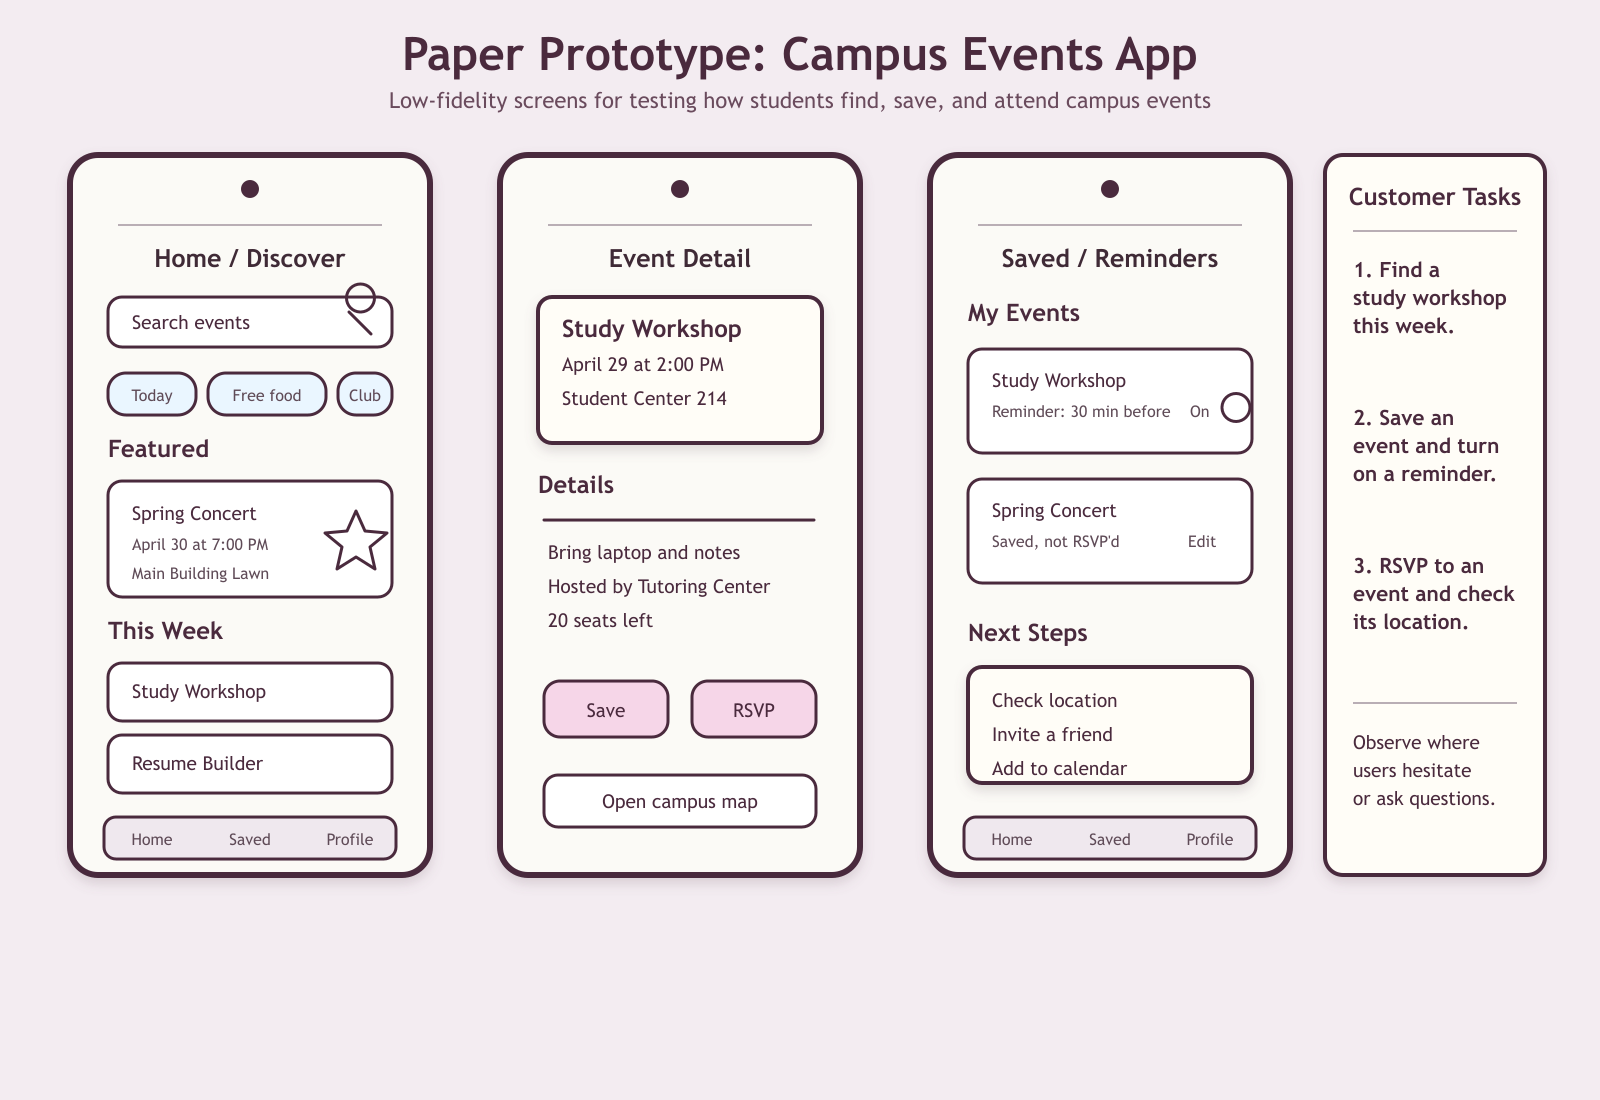
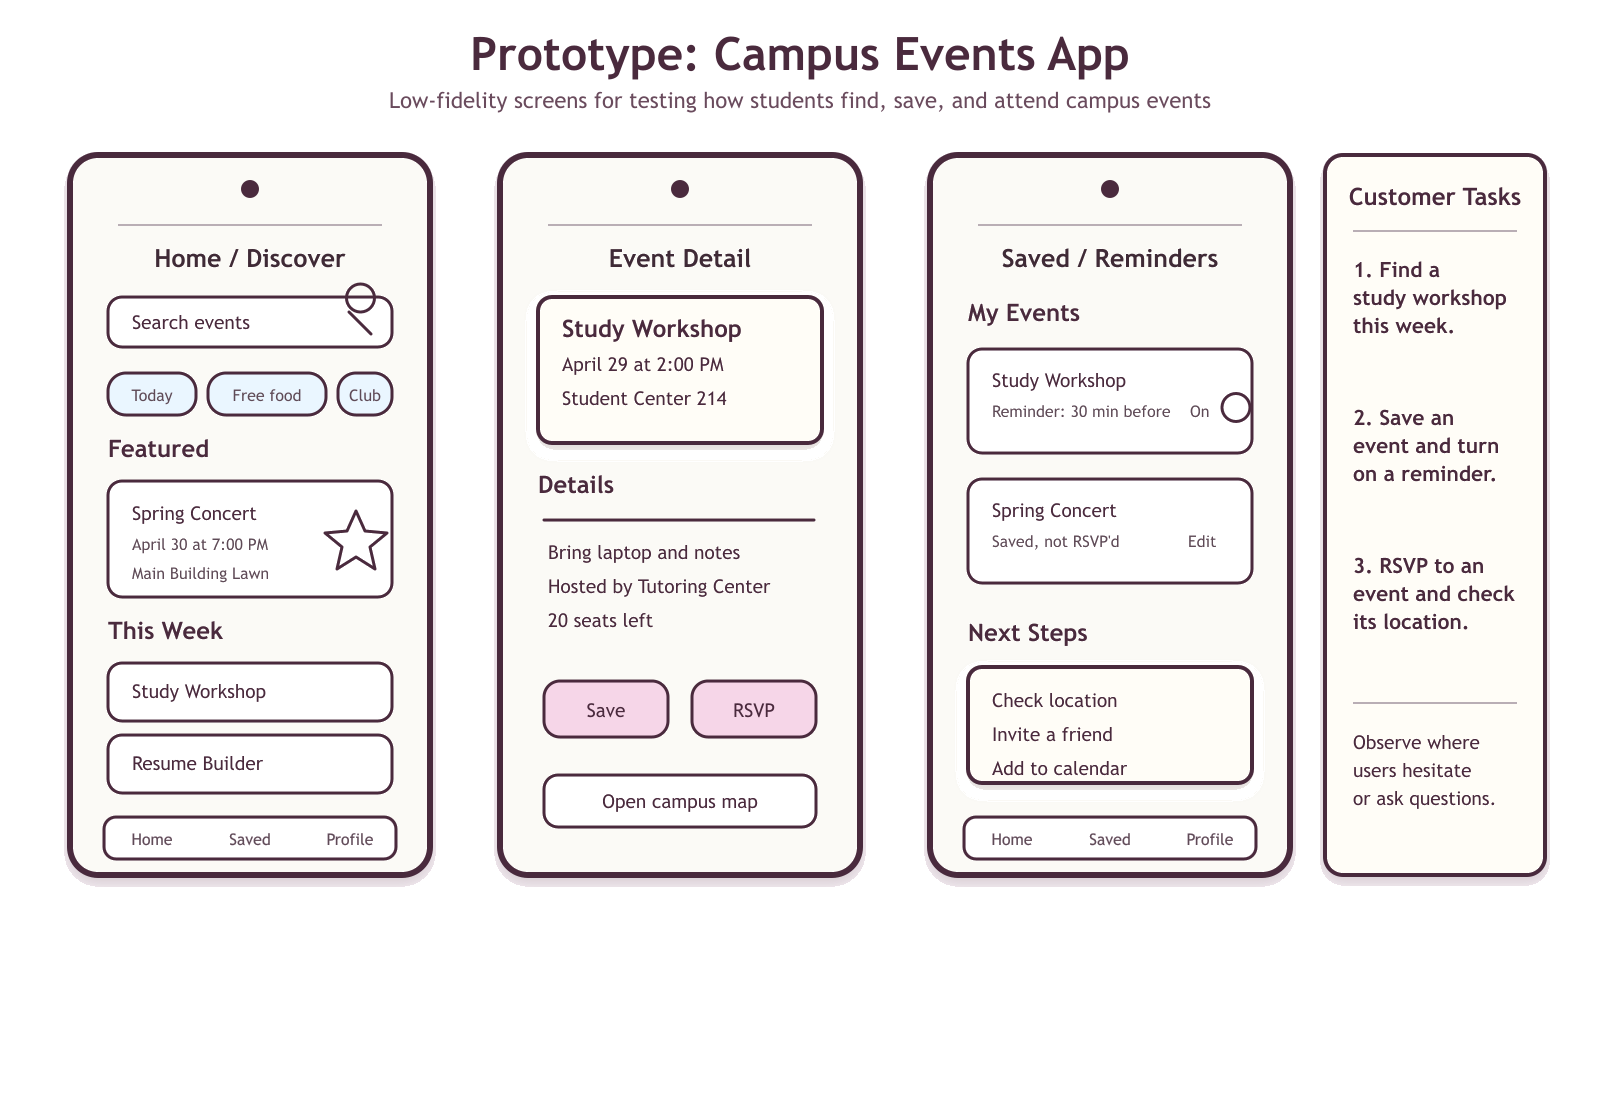
pushing final changes

Changed region(s): [[0.25, 0.0309, 0.75, 0.0927]]

diff --git a/style.css b/style.css
@@ -1,16 +1,23 @@
 :root {
-  --bg: #f3ecf1;
-  --panel: #efe8ee;
-  --card: #dcc9d7;
-  --border: #c694b2;
-  --text: #4a2a3d;
-  --heading: #8f2f63;
-  --link: #8f2f63;
-  --hover-accent: #b64a7b;
+  --bg: #f4f6f8;
+  --surface: #ffffff;
+  --surface-soft: #e8f1f2;
+  --card: #ffffff;
+  --border: #c8d1dc;
+  --text: #243142;
+  --muted: #64748b;
+  --heading: #1e3a5f;
+  --accent: #2f7d7e;
+  --accent-strong: #8a4f63;
+  --shadow: 0 4px 0 rgba(36, 49, 66, 0.12);
 }
 
 * {
   box-sizing: border-box;
+}
+
+html {
+  scroll-behavior: smooth;
 }
 
 body {
@@ -18,98 +25,161 @@ body {
   font-family: "Trebuchet MS", Arial, sans-serif;
   background: var(--bg);
   color: var(--text);
-  padding: 1.75rem 1rem;
+}
+
+a {
+  color: inherit;
 }
 
 main {
-  max-width: 980px;
+  max-width: 1120px;
   margin: 0 auto;
+  padding: 1.5rem 1.25rem 3rem;
+}
+
+.intro {
+  display: grid;
+  grid-template-columns: minmax(0, 1fr) 320px;
+  gap: 1.5rem;
+  align-items: stretch;
+}
+
+.intro,
+.assignments {
+  background: var(--surface);
+  border: 2px solid var(--border);
+  border-radius: 14px;
+  box-shadow: var(--shadow);
+}
+
+.intro {
+  padding: 1.5rem;
+}
+
+.eyebrow {
+  margin: 0 0 0.6rem;
+  color: var(--accent);
+  font-size: 0.95rem;
+  font-weight: 800;
+  letter-spacing: 0;
+  text-transform: uppercase;
 }
 
 .intro h1 {
   margin: 0;
-  font-size: 2.45rem;
+  max-width: 760px;
   color: var(--heading);
+  font-size: 3.25rem;
+  line-height: 1.05;
 }
 
-.intro h2 {
-  margin: 0 0 0.65rem;
-  font-size: 2rem;
-  color: var(--heading);
+.intro p:not(.eyebrow),
+.intro-panel p {
+  margin: 1rem 0 0;
+  color: var(--muted);
+  font-size: 1.02rem;
+  line-height: 1.6;
 }
 
-.intro p {
-  margin: 0 0 0.7rem;
-  line-height: 1.45;
-  font-size: 1rem;
-  max-width: 900px;
-}
-
-.intro a {
-  color: var(--link);
-  font-size: 1rem;
-  font-weight: 700;
+.github-link a {
+  color: var(--accent);
+  font-weight: 800;
   text-decoration: none;
 }
 
-.intro a:hover {
+.github-link a:hover {
+  color: var(--accent-strong);
   text-decoration: underline;
 }
 
+.intro-panel {
+  background: var(--surface-soft);
+  border: 2px solid #b8c9cc;
+  border-radius: 12px;
+  padding: 1.25rem;
+}
+
+.intro-panel h2 {
+  margin: 0;
+  color: var(--heading);
+  font-size: 1.35rem;
+}
+
+.resume-link {
+  display: inline-flex;
+  margin-top: 1.1rem;
+  padding: 0.72rem 1rem;
+  background: var(--heading);
+  color: #ffffff;
+  border-radius: 10px;
+  font-size: 0.95rem;
+  font-weight: 800;
+  text-decoration: none;
+}
+
+.resume-link:hover {
+  background: var(--accent-strong);
+}
+
 .assignments {
-  margin-top: 2rem;
-  background: var(--panel);
-  border-radius: 18px;
+  margin-top: 1.5rem;
   padding: 1.5rem;
 }
 
-.assignments h3 {
-  margin: 0 0 1rem;
-  text-align: center;
+.section-heading {
+  margin-bottom: 1.2rem;
+}
+
+.section-heading h2 {
+  margin: 0;
   color: var(--heading);
-  font-size: 2.25rem;
+  font-size: 2.2rem;
 }
 
 .cards {
-  display: flex;
-  justify-content: center;
-  flex-wrap: wrap;
+  display: grid;
+  grid-template-columns: repeat(2, minmax(0, 1fr));
   gap: 1rem;
 }
 
 .card {
   background: var(--card);
-  border: 3px solid var(--border);
-  border-radius: 18px;
-  padding: 0.8rem;
-  width: min(100%, 430px);
+  border: 2px solid var(--border);
+  border-radius: 14px;
+  padding: 1rem;
   display: flex;
   flex-direction: column;
-  gap: 0.45rem;
+  gap: 0.75rem;
+  min-height: 100%;
+  transition: background-color 160ms ease, border-color 160ms ease;
+}
+
+.card:hover {
+  background: #f7fbfb;
+  border-color: var(--accent-strong);
 }
 
 .card h4 {
   margin: 0;
-  font-size: 1.65rem;
-  line-height: 1.15;
+  color: var(--heading);
+  font-size: 1.3rem;
+  line-height: 1.25;
 }
 
 .card a {
-  color: inherit;
   text-decoration: none;
 }
 
 .card a:hover h4 {
-  color: var(--hover-accent);
-  text-decoration: underline;
+  color: var(--accent);
 }
 
 .image-link {
   display: block;
   aspect-ratio: 7 / 5;
   overflow: hidden;
-  border: 3px solid #9f9f9f;
-  border-radius: 12px;
+  border: 2px solid #c9d2dc;
+  border-radius: 10px;
   background: #ffffff;
 }
 
@@ -120,26 +190,48 @@ main {
   object-fit: contain;
   object-position: center;
   display: block;
-  margin-bottom: 0;
-  color: #666;
-  font-size: 1.35rem;
-  text-align: center;
-  line-height: 1.3;
 }
 
 .card p {
   margin: 0;
-  font-size: 0.85rem;
-  line-height: 1.45;
+  color: var(--muted);
+  font-size: 0.95rem;
+  line-height: 1.55;
 }
 
 .card a:hover.image-link {
-  border-color: var(--hover-accent);
-  box-shadow: 0 0 0 2px rgba(182, 74, 123, 0.2);
+  border-color: var(--accent-strong);
 }
 
-@media (max-width: 900px) {
-  .card h4 {
-    font-size: 1.6rem;
+@media (max-width: 820px) {
+  .intro {
+    align-items: flex-start;
+  }
+
+  .intro {
+    grid-template-columns: 1fr;
+  }
+
+  .intro h1 {
+    font-size: 3rem;
+  }
+
+  .cards {
+    grid-template-columns: 1fr;
+  }
+}
+
+@media (max-width: 560px) {
+  main {
+    padding: 1.25rem 0.85rem 2rem;
+  }
+
+  .intro,
+  .assignments {
+    padding: 1rem;
+  }
+
+  .intro h1 {
+    font-size: 2.35rem;
   }
 }

diff --git a/index.html b/index.html
@@ -8,18 +8,30 @@
 </head>
 <body>
   <main>
-    <section class="intro">
-      <h2>Emma Roberts</h2>
-      <h1>CSCE 190: Computing in the Modern World</h1>
-      <p>
-        CSCE 190 introduces the software development process through teamwork, problem analysis,
-        prototyping, and communication. This site highlights assignment deliverables throughout the semester.
-      </p>
-      <p><a href="https://github.com/CSE-eroberts/CSE-eroberts190.github.io">https://github.com/CSE-eroberts/CSE-eroberts190.github.io</a></p>
+    <section class="intro" aria-labelledby="page-title">
+      <div>
+        <p class="eyebrow">Welcome</p>
+        <h1 id="page-title">Emma Roberts' CSCE 190 Website</h1>
+        <p>
+          This site shares my CSCE 190 assignments and the design work for a campus
+          events app, including brainstorming, sketches, prototypes, and project documents.
+        </p>
+        <p class="github-link">
+          <a href="https://github.com/CSE-eroberts/CSE-eroberts190.github.io">GitHub Repository</a>
+        </p>
+      </div>
+      <div class="intro-panel" id="resume">
+        <h2>My Resume</h2>
+        <p>View or download my resume as a PDF.</p>
+        <a class="resume-link" href="files/resume.pdf">Open Resume</a>
+      </div>
     </section>
 
-    <section class="assignments">
-      <h3>Assignments</h3>
+    <section class="assignments" id="assignments">
+      <div class="section-heading">
+        <p class="eyebrow">Class Work</p>
+        <h2>Assignments</h2>
+      </div>
       <div class="cards">
         <article class="card">
           <a href="files/Problem Statement.pdf"><h4>Assignment 1 - Problem Statement</h4></a>